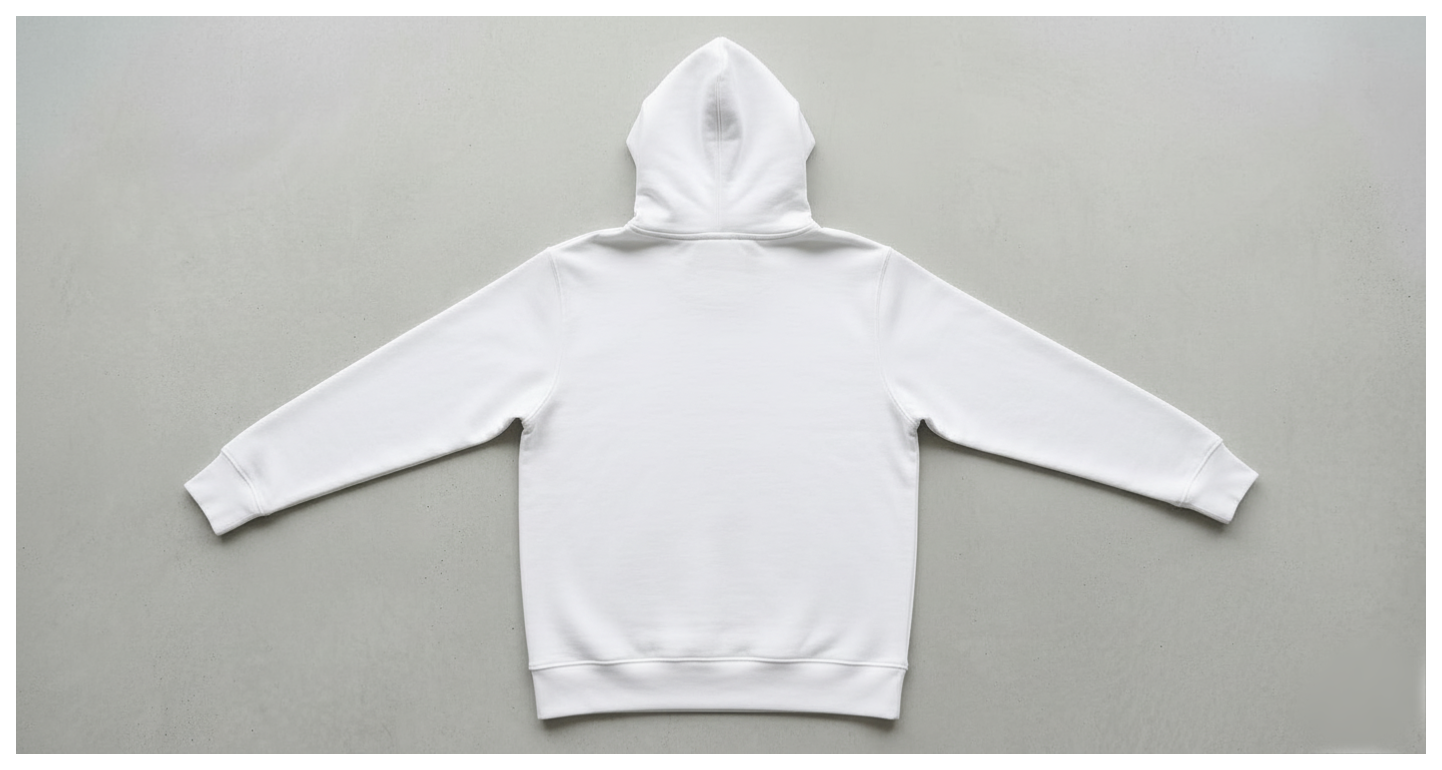
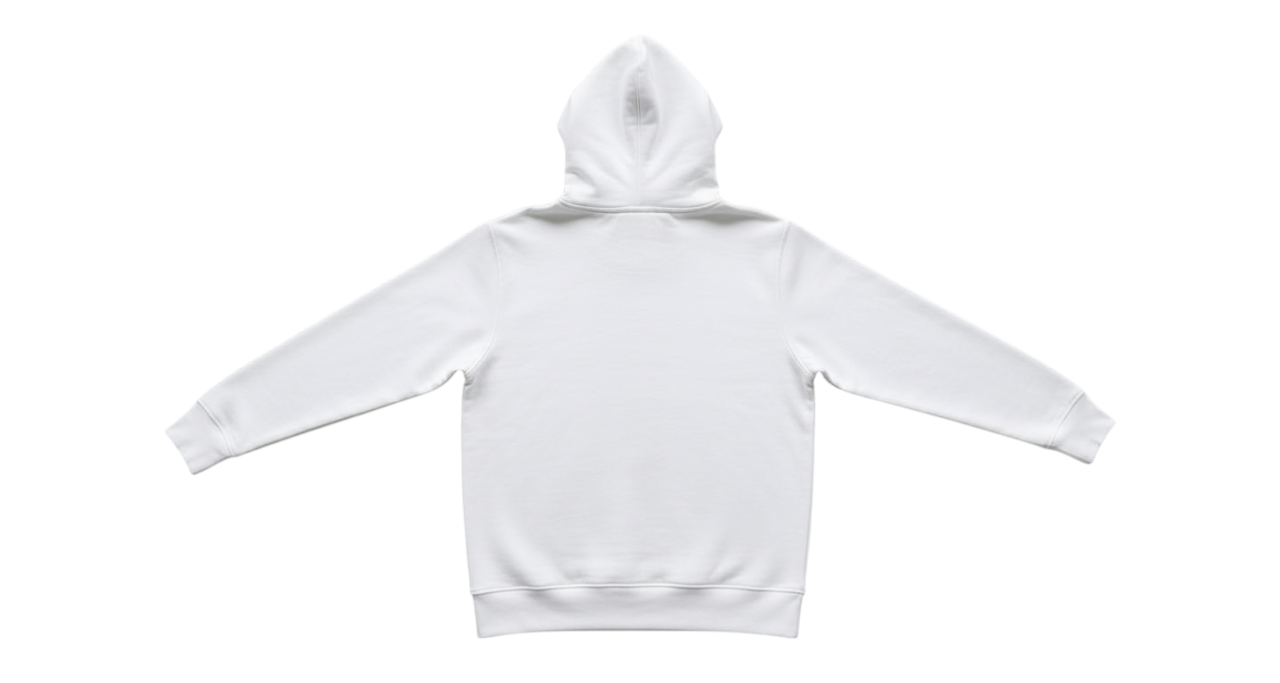
chore: clean up empty code change sections in the changes log

diff --git a/src/Pages/PrintStudioPage.jsx b/src/Pages/PrintStudioPage.jsx
@@ -8,6 +8,7 @@ import tshirtFrontMock from '../assets/mock images/T-shirt (front).png';
 import tshirtBackMock from '../assets/mock images/T-shirt (back).png';
 import hoodieFrontMock from '../assets/mock images/hoodie (front).png';
 import hoodieBackMock from '../assets/mock images/hoodie (back).png';
+import mockBackground from '../assets/mock images/background.png';
 
 const ACCEPTED_TYPES = [
   'image/png',
@@ -113,7 +114,7 @@ const MockupStage = ({
 }) => {
   return (
     <div
-      className={`relative rounded-2xl bg-gradient-to-b from-white to-[#e8e8e8] border border-black/10 overflow-hidden ${heightClassName}`}
+      className={`relative rounded-2xl bg-[#e8e8e8] border border-black/10 overflow-hidden ${heightClassName}`}
       onPointerMove={onStagePointerMove}
       onPointerUp={onStagePointerUp}
       onPointerLeave={onStagePointerUp}
@@ -129,10 +130,17 @@ const MockupStage = ({
       >
         <div className="absolute inset-2 sm:inset-3 rounded-xl overflow-hidden isolate" onPointerDown={onStagePointerDown}>
           <img
+            src={mockBackground}
+            alt=""
+            aria-hidden="true"
+            className="absolute inset-0 h-full w-full object-cover object-center pointer-events-none select-none"
+            draggable={false}
+          />
+          <img
             src={activeMockup}
             alt="Garment mockup"
             className="h-full w-full object-cover object-center scale-[1.24] sm:scale-[1.14] md:scale-[1.08] select-none"
-            style={{ filter: 'grayscale(1) contrast(1.45) brightness(0.46)' }}
+            style={{ filter: 'grayscale(1) contrast(1.32) brightness(1.03)' }}
             draggable={false}
           />
           <div
@@ -141,13 +149,16 @@ const MockupStage = ({
               backgroundColor: garmentColor,
               WebkitMaskImage: `url(${activeMockup})`,
               maskImage: `url(${activeMockup})`,
+              WebkitMaskSourceType: 'luminance',
+              maskMode: 'luminance',
               WebkitMaskSize: 'cover',
               maskSize: 'cover',
               WebkitMaskRepeat: 'no-repeat',
               maskRepeat: 'no-repeat',
               WebkitMaskPosition: 'center',
               maskPosition: 'center',
-              opacity: 0.98,
+              mixBlendMode: 'normal',
+              opacity: 1,
             }}
           />
           <img
@@ -155,7 +166,7 @@ const MockupStage = ({
             alt=""
             aria-hidden="true"
             className="absolute inset-0 h-full w-full object-cover object-center scale-[1.24] sm:scale-[1.14] md:scale-[1.08] pointer-events-none select-none"
-            style={{ filter: 'grayscale(1) contrast(1.45) brightness(1.18)', opacity: 0.34, mixBlendMode: 'screen' }}
+            style={{ filter: 'grayscale(1) contrast(1.2) brightness(1.18)', opacity: 0.18, mixBlendMode: 'screen' }}
             draggable={false}
           />
         </div>
@@ -239,7 +250,7 @@ const PrintStudioPage = () => {
   );
 
   useEffect(() => {
-    const mockups = Object.values(MOCK_IMAGE_MAP).flatMap((entry) => Object.values(entry));
+    const mockups = [...Object.values(MOCK_IMAGE_MAP).flatMap((entry) => Object.values(entry)), mockBackground];
     mockups.forEach((src) => {
       const image = new Image();
       image.src = src;
